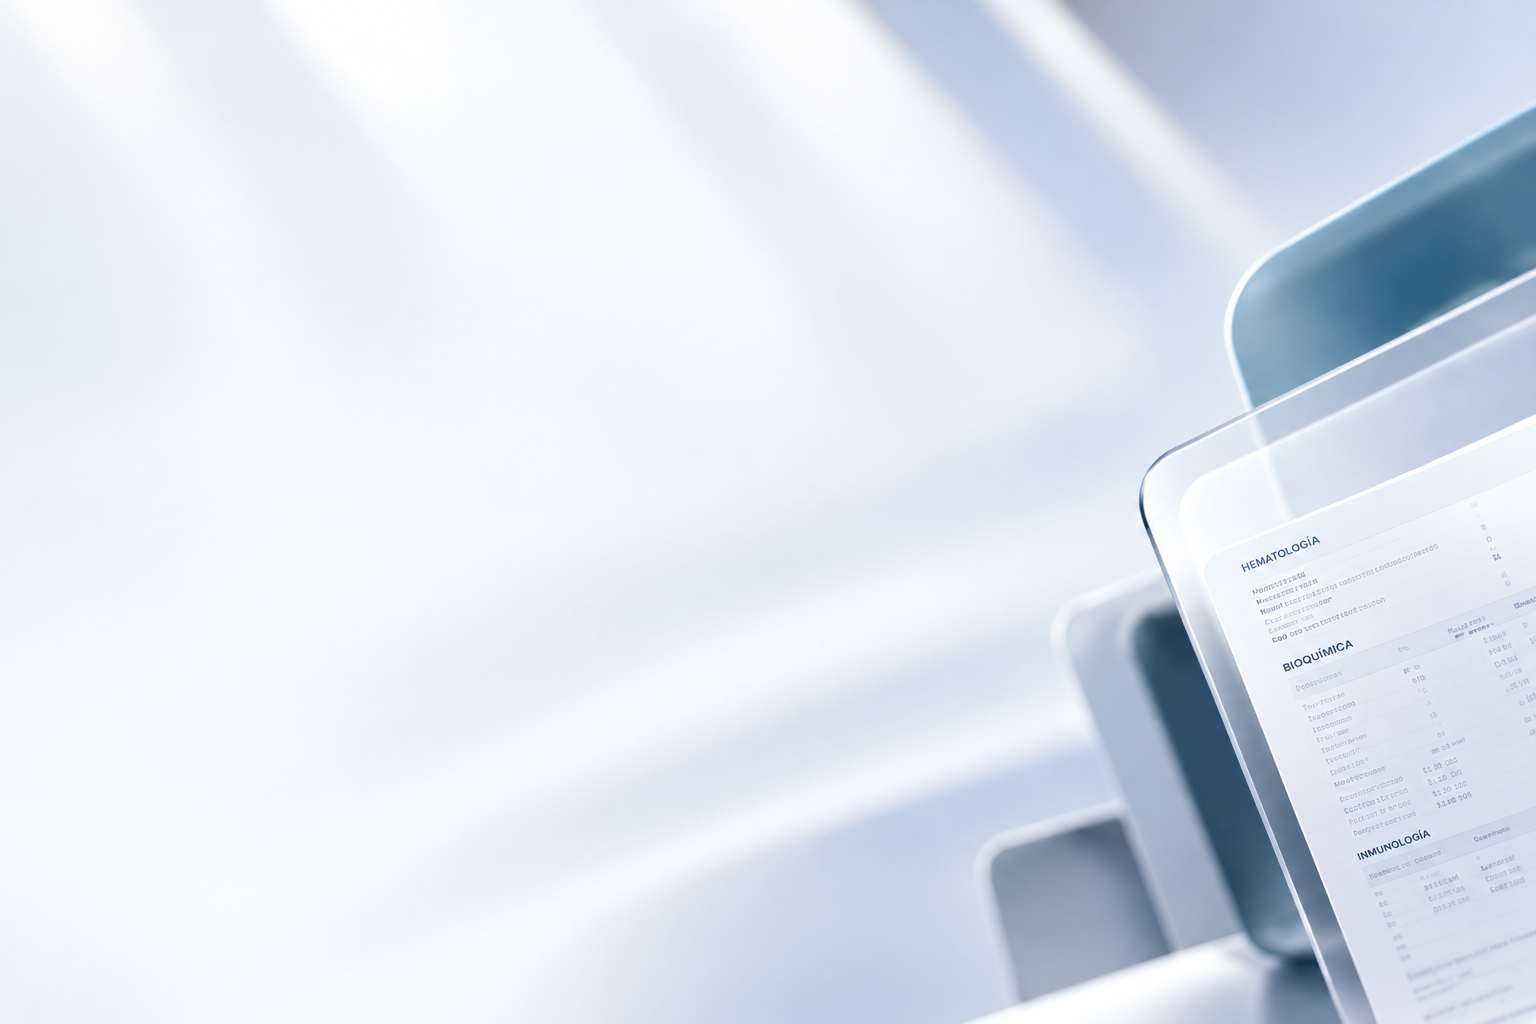
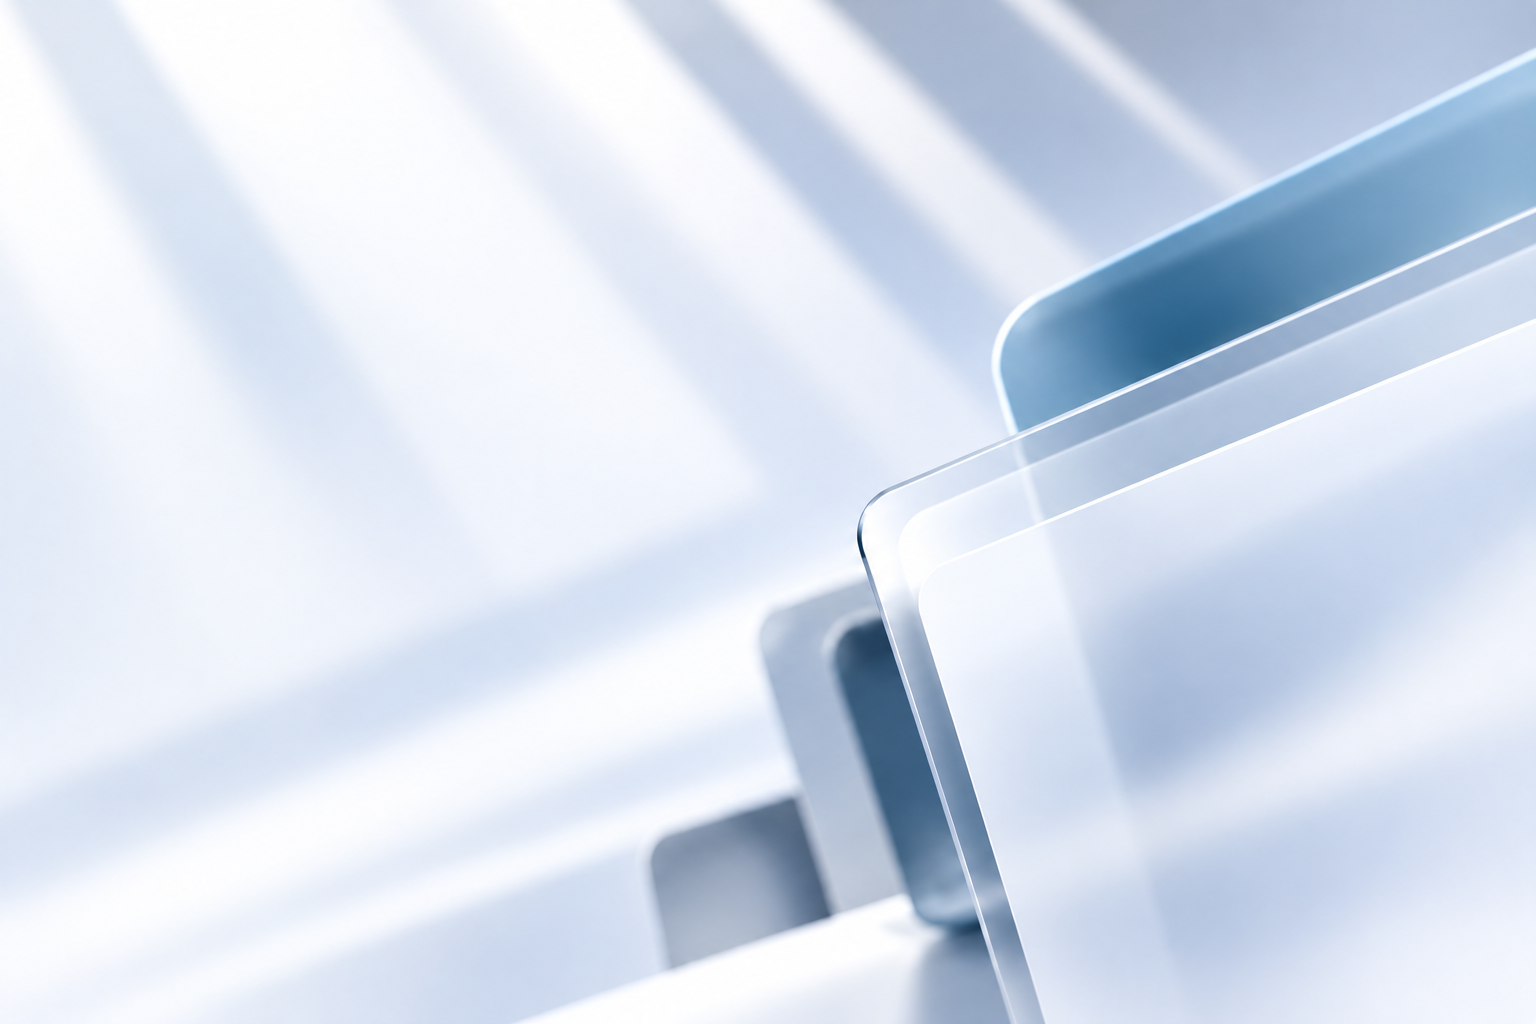
Add files via upload

diff --git a/index.html b/index.html
@@ -114,11 +114,39 @@ main.ext-main{max-width:1600px;margin:28px auto;padding:0 28px}
 @media(max-width:980px){.login-split{grid-template-columns:1fr;gap:20px;padding-top:25px;padding-bottom:30px}.login-story{max-width:none}.login-story h2{font-size:38px;margin:14px 0}.login-benefits{display:none}.login-main{width:100%}.login-card{max-width:620px}.login-screen{background-position:35% center}}
 @media(max-width:600px){.login-brand{padding:22px 22px 0}.login-logo{width:145px}.login-split{padding:18px 18px 22px}.login-story h2{font-size:31px;letter-spacing:-1.2px}.login-story>p{font-size:14px}.login-eyebrow{font-size:10px;letter-spacing:2px}.login-card{padding:27px 23px}.login-card h1{font-size:30px}.login-card>p{font-size:14px}.login-footer{padding:0 22px 20px;gap:8px;font-size:10px}.dashboard-welcome{align-items:flex-start}.welcome-badge{display:none}main.ext-main{padding:0 16px}}
 @media print{.login-screen,.dashboard-welcome{display:none!important}}
+
+/* Login 2.0 fidelity pass: approved split-screen concept */
+.login-screen{height:100svh;min-height:720px;overflow:auto;background:#e9f1f9 url('./FONDO.png') center/cover no-repeat!important;position:relative}
+.login-screen:before{content:''!important;display:block!important;position:absolute;inset:0;width:auto;height:auto;min-width:0;min-height:0;background:linear-gradient(90deg,rgba(247,250,254,.44),rgba(255,255,255,.12) 56%,rgba(246,250,255,.70) 56.01%,rgba(246,250,255,.75));clip-path:none;opacity:1;border-radius:0}
+.login-brand{padding:40px 4.6vw 0;display:flex;align-items:center;gap:22px}
+.ext-mark{width:75px;height:75px;border-radius:16px;background:linear-gradient(145deg,#087fa0,#00446b);color:white;font-size:31px;font-weight:600;display:grid;place-items:center;box-shadow:0 8px 19px #0d50701b}
+.ext-wordmark{display:flex;flex-direction:column;gap:0;color:#073148}.ext-wordmark strong{font-size:58px;line-height:.93;letter-spacing:1px;font-weight:650}.ext-wordmark span{font-size:14px;letter-spacing:4.8px;font-weight:650;margin-top:6px}
+.login-theme{position:absolute;top:29px;right:32px;z-index:5;background:#ffffffd9!important;border:1px solid #e0e8f1!important;color:#6784a3!important;width:52px;height:52px;border-radius:15px!important;font-size:29px;box-shadow:0 5px 17px #30465b0b}
+.login-split{position:relative;z-index:2;grid-template-columns:55% 45%;gap:0;padding:15px 4.6vw 15px;align-items:center}
+.login-story{max-width:650px;padding-right:45px;align-self:center}.login-eyebrow{letter-spacing:4px;font-size:12px;color:#58718b}
+.login-story h2{font-size:clamp(39px,3.65vw,62px);letter-spacing:-2.6px;margin:26px 0 14px;line-height:1.05;color:#07132b}.login-story h2 em{color:#59728b}
+.login-story>p{font-size:clamp(16px,1.22vw,20px);line-height:1.5;max-width:560px}
+.login-benefits{gap:25px;margin-top:42px}.login-benefits>div{gap:20px}.benefit-icon{width:69px;height:69px;border-radius:19px;font-size:31px}.login-benefits strong{font-size:17px}.login-benefits small{font-size:14px}
+.login-main{display:flex;align-items:center;justify-content:center;padding:0 0 0 22px}
+.login-card{width:100%;max-width:580px;padding:clamp(34px,3.5vw,62px) clamp(32px,3.2vw,57px);border-radius:15px;background:rgba(255,255,255,.95);box-shadow:0 9px 33px #4c627215;border:1px solid #dce5ef;backdrop-filter:blur(16px)}
+.login-card h1{font-size:clamp(32px,2.8vw,45px);letter-spacing:-1.9px;font-weight:760;margin-bottom:5px}.login-card>p{font-size:19px;color:#6a7e97}
+.login-form{margin-top:43px}.login-label{position:absolute;width:1px;height:1px;overflow:hidden;clip:rect(0,0,0,0);white-space:nowrap}
+.login-field{height:72px;border:1px solid #dbe4ee;border-radius:15px;background:#fff;margin-bottom:23px;gap:17px;padding:0 22px;box-shadow:none}
+.login-field svg{width:26px;height:26px;color:#657f9a}.login-field input{font-size:18px;min-width:0;box-shadow:none!important;outline:none!important}.login-field input::placeholder{color:#a2b2c8}
+.toggle-pass{font-size:21px!important;filter:grayscale(1)}
+.login-extras{display:flex;justify-content:space-between;align-items:center;gap:10px;margin:6px 0 30px;font-size:14px}.remember-wrap{display:flex;align-items:center;gap:10px;white-space:nowrap;color:#25384c}.remember-wrap input{accent-color:#0a4a70;width:20px;height:20px}.forgot-label{color:#0b4e82;white-space:nowrap;cursor:default}
+.login-submit{height:74px;font-size:19px!important;border-radius:14px!important;margin:0;background:#08476c!important;box-shadow:0 6px 16px #0b3e5914!important}
+.login-divider{display:flex;align-items:center;gap:18px;color:#72849b;margin:33px 0 27px}.login-divider:before,.login-divider:after{content:'';height:1px;background:#d9e3ed;flex:1}
+.login-note{margin:0;display:flex;justify-content:flex-start;align-items:center;padding:24px 26px;border-radius:16px;background:#f1f5fa;gap:17px}.login-note svg{width:27px;height:27px;color:#2363a2}.login-note span{display:flex;flex-direction:column;gap:5px}.login-note strong{color:#17283c;font-size:15px}.login-note small{color:#6a809a;font-size:13px}
+.login-footer{position:relative;z-index:2;display:flex;justify-content:space-between;align-items:end;padding:10px 4.6vw 35px;color:#435c77;font-size:14px;line-height:1.45}.login-footer span:last-child{text-align:right}.login-footer small{font-size:12px;color:#7489a0}
+@media(max-width:1050px){.login-screen{height:auto;min-height:100svh}.login-split{grid-template-columns:1fr 1fr;padding:30px 28px}.login-brand{padding:25px 28px 0}.ext-mark{width:58px;height:58px;font-size:24px}.ext-wordmark strong{font-size:42px}.ext-wordmark span{font-size:10px}.login-story{padding-right:22px}.login-benefits{gap:15px}.login-card{padding:32px 25px}.login-field{height:62px}.login-submit{height:62px}.login-extras{flex-wrap:wrap}.login-footer{padding:12px 28px 24px}}
+@media(max-width:750px){.login-screen:before{background:#f5f9fbd9}.login-split{grid-template-columns:1fr;padding:25px 20px;gap:24px}.login-story{padding:0}.login-story h2{font-size:36px}.login-story>p{font-size:15px}.login-benefits{display:none}.login-main{padding:0}.login-card{max-width:none}.login-brand{padding:22px 20px 0}.login-theme{right:20px;top:22px;width:44px;height:44px}.login-footer{padding:0 20px 24px}.login-card>p{font-size:16px}.login-form{margin-top:26px}}
+.login-night{filter:brightness(.82)}
 </style>
 </head>
 <body>
 <section id="loginScreen" class="login-screen">
-<div class="login-brand"><img src="./LOGO.png" alt="EXT Exámenes" class="login-logo"></div>
+<div class="login-brand"><div class="ext-mark">EXT</div><div class="ext-wordmark"><strong>EXT</strong><span>EXÁMENES</span></div></div><button type="button" id="loginTheme" class="login-theme" title="Cambiar apariencia" aria-label="Cambiar apariencia">☼</button>
 <div class="login-split">
 <div class="login-story"><span class="login-eyebrow">PROCESAMIENTO AUTOMÁTICO</span><h2>Exámenes médicos<br><em>en segundos.</em></h2><p>Sube tus informes, genera los cuadros automáticamente y enfócate en lo importante.</p>
 <div class="login-benefits"><div><span class="benefit-icon">▤</span><span><strong>Procesamiento local</strong><small>Tus PDF se procesan en tu navegador.</small></span></div><div><span class="benefit-icon">↗</span><span><strong>Resultados automáticos</strong><small>Cuadros listos para copiar y utilizar.</small></span></div><div><span class="benefit-icon">▥</span><span><strong>Control de trabajo</strong><small>Historial e indicadores de actividad.</small></span></div></div></div>
@@ -126,9 +154,9 @@ main.ext-main{max-width:1600px;margin:28px auto;padding:0 28px}
 <form id="loginForm" class="login-form" novalidate><label class="login-label" for="loginUser">Usuario</label>
 <div class="login-field"><svg viewBox="0 0 24 24" fill="none"><path d="M12 12a4 4 0 1 0 0-8 4 4 0 0 0 0 8Z" stroke="currentColor" stroke-width="1.8"/><path d="M4.5 20a7.5 7.5 0 0 1 15 0" stroke="currentColor" stroke-width="1.8" stroke-linecap="round"/></svg><input id="loginUser" autocomplete="username" placeholder="Usuario"></div>
 <label class="login-label" for="loginPass">Contraseña</label><div class="login-field"><svg viewBox="0 0 24 24" fill="none"><path d="M7 10V7a5 5 0 0 1 10 0v3" stroke="currentColor" stroke-width="1.8" stroke-linecap="round"/><rect x="5" y="10" width="14" height="10" rx="2.5" stroke="currentColor" stroke-width="1.8"/></svg><input id="loginPass" type="password" autocomplete="current-password" placeholder="Contraseña"><button type="button" class="toggle-pass" id="togglePass" aria-label="Mostrar u ocultar contraseña">👁</button></div>
-<button type="submit" class="login-submit" id="loginSubmit">Iniciar sesión <span>→</span></button><div id="loginError" class="login-error" hidden>Usuario o contraseña incorrectos.</div></form>
-<div class="login-note"><svg viewBox="0 0 24 24" fill="none"><path d="M7 10V7a5 5 0 0 1 10 0v3" stroke="currentColor" stroke-width="1.8" stroke-linecap="round"/><rect x="5" y="10" width="14" height="10" rx="2.5" stroke="currentColor" stroke-width="1.8"/></svg><span>Acceso interno · Usuarios autorizados</span></div>
-</div></div></div><div class="login-footer"><span>Acceso restringido · Uso interno</span><span>EXT 2.0 · Exámenes</span></div></section>
+<div class="login-extras"><label class="remember-wrap"><input type="checkbox" id="rememberLogin" checked> Mantener sesión activa</label><span class="forgot-label" title="Disponible cuando se implemente la autenticación segura">¿Olvidaste tu contraseña?</span></div><button type="submit" class="login-submit" id="loginSubmit">Iniciar sesión <span>→</span></button><div id="loginError" class="login-error" hidden>Usuario o contraseña incorrectos.</div></form>
+<div class="login-divider"><span>o</span></div><div class="login-note"><svg viewBox="0 0 24 24" fill="none"><path d="M7 10V7a5 5 0 0 1 10 0v3" stroke="currentColor" stroke-width="1.8" stroke-linecap="round"/><rect x="5" y="10" width="14" height="10" rx="2.5" stroke="currentColor" stroke-width="1.8"/></svg><span><strong>Sistema de acceso interno</strong><small>Acceso exclusivo para usuarios autorizados.</small></span></div>
+</div></div></div><div class="login-footer"><span>♙ &nbsp; Acceso restringido<br><small>Uso interno · EXT Exámenes</small></span><span>EXT v2.0<br><small>Exámenes</small></span></div></section>
 <div id="appShell" hidden>
 <header class="app-header"><div class="header-inner"><img src="./LOGO.png" alt="EXÁMENES TÉCNICO" class="brand-logo"><div class="header-tools"><div class="session-chip" id="sessionChip"><span class="session-avatar" id="sessionInitials">AM</span><div class="session-meta"><strong id="sessionName">Alexander Mendoza</strong><span id="sessionRole">Administrador</span></div></div><button type="button" class="outline logout-btn" id="logoutBtn">Salir</button><div class="menu-wrap"><button type="button" class="menu-trigger" id="historyToggle" aria-label="Abrir historial" aria-expanded="false" aria-controls="historyPanel"><span></span><span></span><span></span></button><aside class="history-panel" id="historyPanel" hidden><div class="history-top"><strong>Historial</strong><span id="historyCount">0 registros</span></div><div class="history-search"><input id="historySearch" type="search" placeholder="Buscar por cliente o archivo…" aria-label="Buscar historial"></div><div id="historyList" class="history-list"></div><div class="history-bottom"><span>Guardado solo en este navegador</span><button class="history-purge" id="historyPurge" type="button">Borrar historial</button></div></aside></div></div></div></header>
 <main class="ext-main"><div class="ext-layout"><div class="ext-primary">
@@ -391,6 +419,7 @@ $('#image').addEventListener('click',async()=>{
 $('#print').addEventListener('click',()=>{if(!state.length)return;const node=captureNode();node.classList.add('print-capture');node.style.cssText='position:static;width:100%;padding:0';document.body.classList.add('printing');window.print();document.body.classList.remove('printing');node.remove()});
 $('#clear').addEventListener('click',()=>{state.length=0;render()});
 $('#togglePass').addEventListener('click',()=>{const input=$('#loginPass');const show=input.type==='password';input.type=show?'text':'password';$('#togglePass').textContent=show?'🙈':'👁';input.focus()});
+$('#loginTheme').addEventListener('click',()=>{document.querySelector('#loginScreen').classList.toggle('login-night')});
 $('#loginForm').addEventListener('submit',e=>{e.preventDefault();const user=findUser($('#loginUser').value,$('#loginPass').value);if(!user){$('#loginError').hidden=false;$('#loginError').textContent='Usuario o contraseña incorrectos.';$('#loginPass').focus();return}setSession(user)});
 let logoutReturnFocus=null,confirmModalAction=null;
 function hideLogoutModal(){ $('#logoutModal').hidden=true;$('#logoutConfirm').textContent='Aceptar';confirmModalAction=null;logoutReturnFocus?.focus() }
